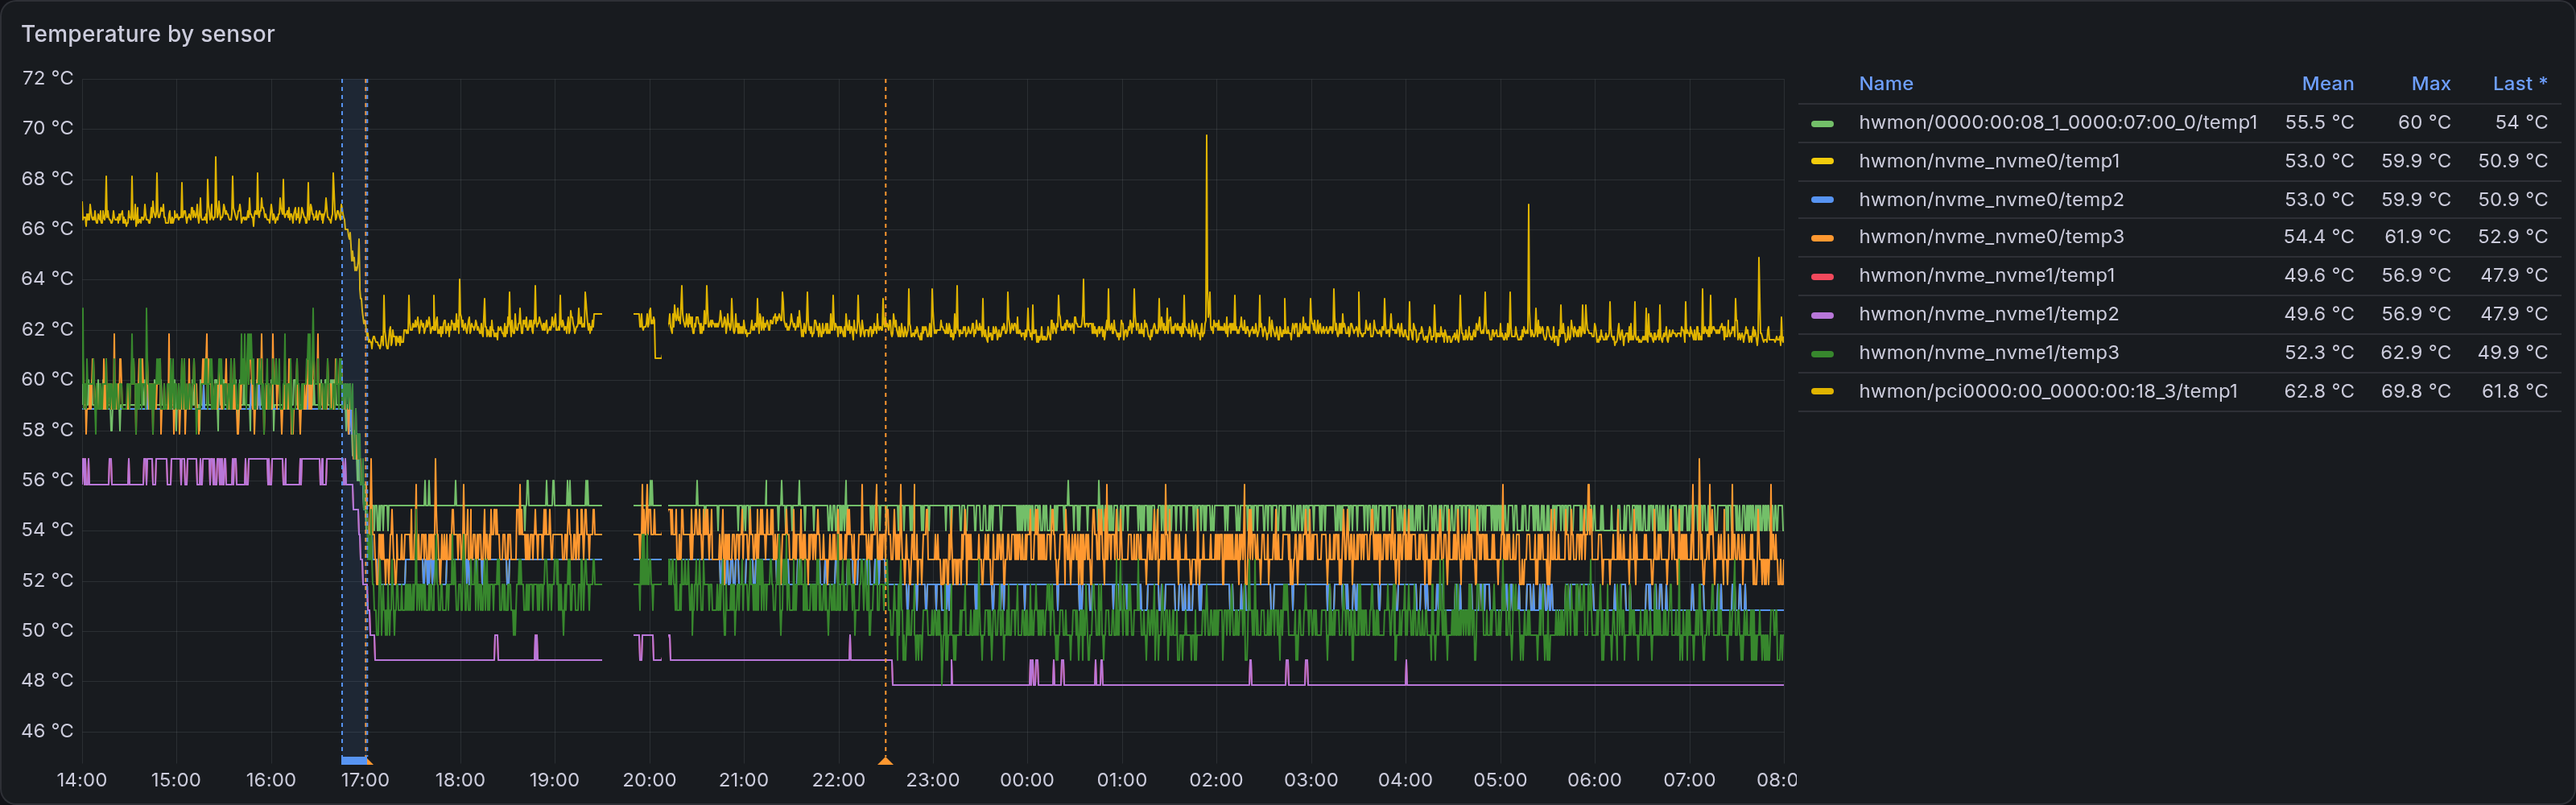
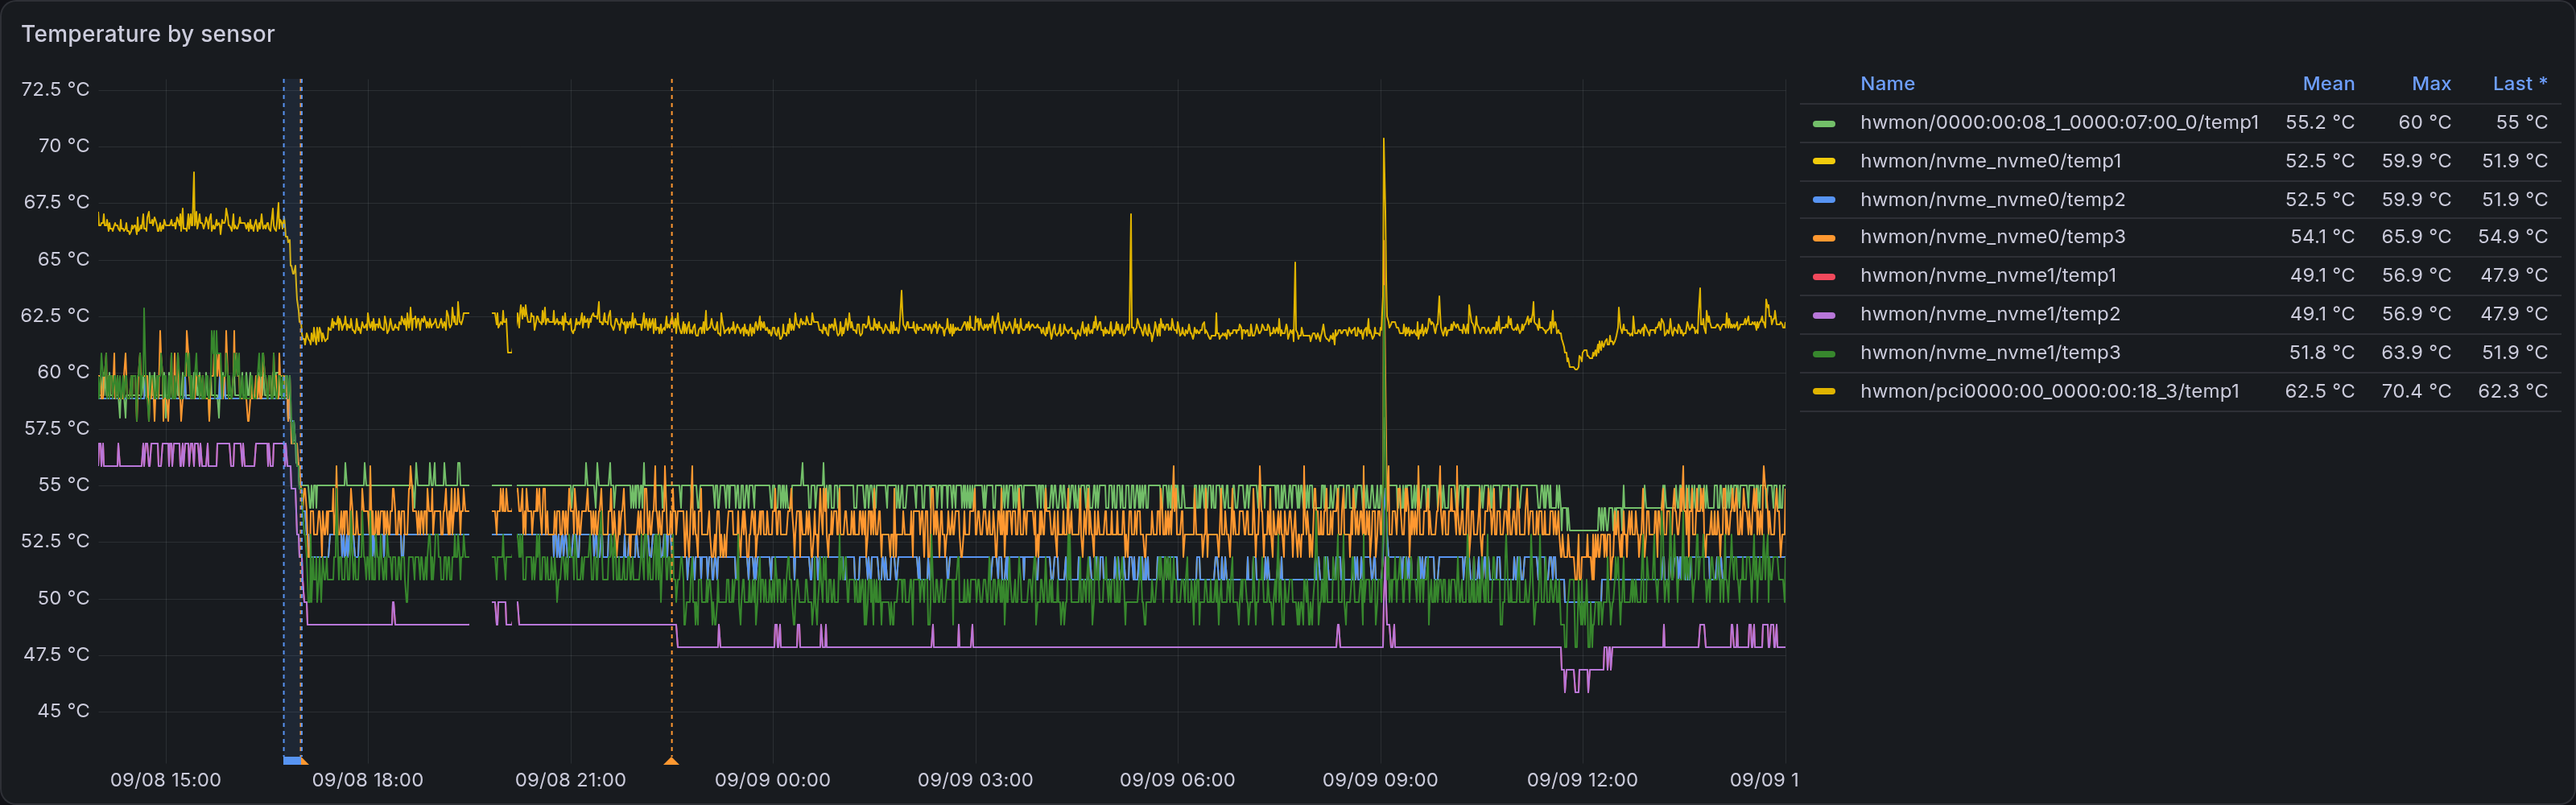
use MemTotal for memory totals instead of summing usage states

diff --git a/README.md b/README.md
@@ -36,7 +36,7 @@ The Elite Mini runs Proxmox VE, so it's a hypervisor with a handful of VMs on it
 | medium -> high | -0.15 °C | -0.07 |
 | off -> high | -4.76 °C | -0.26 |
 
-![Eight hwmon readings over eighteen hours: a flat band near 67 °C, a step down at 17:00, then a lower band near 62 °C that does not move when the fans go to high at 22:30](docs/images/host-overview-temperature-by-sensor.png)
+![Eight hwmon readings over twenty-five hours: a flat band near 67 °C, a step down at 17:00, then a lower band near 62 °C that does not move when the fans go to high at 22:30](docs/images/host-overview-temperature-by-sensor.png)
 
 Medium takes about 4.5 °C off the hottest sensor. High adds nothing on top of it: two untouched windows drift by ±0.4 °C on their own, so -0.15 °C is not a result. CPU load was identical across every window, so this is cooling rather than a quieter machine.
 
@@ -126,11 +126,11 @@ Every host metric carries `host.name`, `host.id`, and `os.type`, so the three so
 
 Two are provisioned. **Host Overview** covers OS-level metrics and hwmon sensors:
 
-![Host Overview: uptime, CPU busy, memory, load, hottest sensor and package power as stat tiles, then CPU by state, memory by state, load average, temperature by sensor, degrees per watt, disk I/O, filesystem and network](docs/images/host-overview.png)
+![Host Overview: a row of stat tiles across the top, then time series grouped into compute, thermal, and storage and network rows](docs/images/host-overview.png)
 
 **Proxmox Overview** covers node, guest and storage state:
 
-![Proxmox Overview: node uptime, CPU, memory, ZFS ARC and guest counts, then CPU, memory, disk and network broken out per guest](docs/images/proxmox-overview.png)
+![Proxmox Overview: node stat tiles across the top, then time series grouped into guests, guest I/O, and node and storage rows](docs/images/proxmox-overview.png)
 
 Both appear on first start -- there is nothing to import.
 
